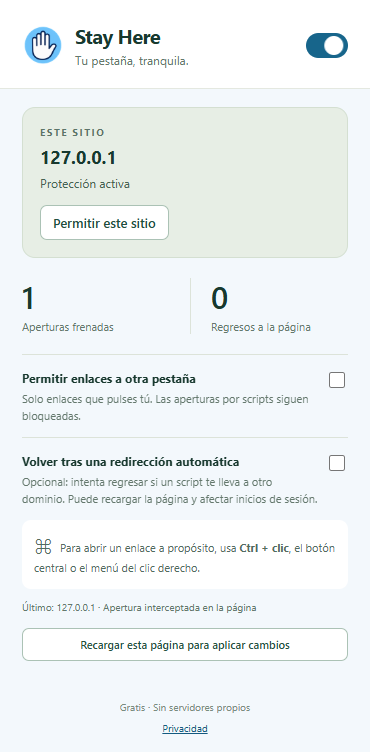
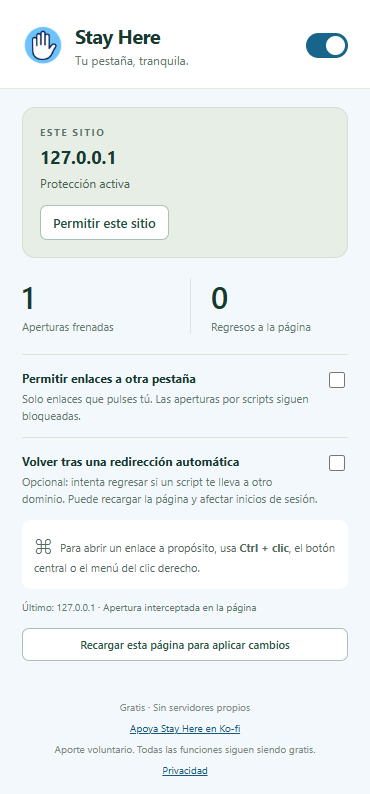
Conecta Ko-fi y refuerza la privacidad en Stay Here 1.1.1

diff --git a/docs/privacy.html b/docs/privacy.html
@@ -5,7 +5,7 @@
 <title>Privacidad de Stay Here</title>
 <style>body{font:17px/1.7 system-ui,sans-serif;max-width:760px;margin:48px auto;padding:0 24px;color:#17354b}h1,h2{line-height:1.25}a{color:#145a80}</style>
 <h1>Privacidad de Stay Here</h1>
-<p>Actualizada el 26 de octubre de 2026. Esta política corresponde a Stay Here 1.1.0.</p>
+<p>Actualizada el 26 de octubre de 2026. Esta política corresponde a Stay Here 1.1.1.</p>
 <p>Stay Here ayuda a bloquear aperturas de ventanas y pestañas emergentes. El procesamiento de la protección ocurre en tu navegador. La extensión no usa servidores propios, cuentas, analítica ni publicidad y no transmite los datos de navegación al desarrollador.</p>
 <h2>Datos que utiliza</h2>
 <p>La extensión utiliza las direcciones de páginas y destinos de enlaces o formularios, el dominio del sitio y eventos de navegación para decidir qué aperturas permitir o cerrar. No extrae el contenido de los campos de formularios ni crea un historial permanente de navegación.</p>

diff --git a/privacy.html b/privacy.html
@@ -5,7 +5,7 @@
 <title>Privacidad de Stay Here</title>
 <style>body{font:17px/1.7 system-ui,sans-serif;max-width:760px;margin:48px auto;padding:0 24px;color:#17354b}h1,h2{line-height:1.25}a{color:#145a80}</style>
 <h1>Privacidad de Stay Here</h1>
-<p>Actualizada el 26 de octubre de 2026. Esta política corresponde a Stay Here 1.1.0.</p>
+<p>Actualizada el 26 de octubre de 2026. Esta política corresponde a Stay Here 1.1.1.</p>
 <p>Stay Here ayuda a bloquear aperturas de ventanas y pestañas emergentes. El procesamiento de la protección ocurre en tu navegador. La extensión no usa servidores propios, cuentas, analítica ni publicidad y no transmite los datos de navegación al desarrollador.</p>
 <h2>Datos que utiliza</h2>
 <p>La extensión utiliza las direcciones de páginas y destinos de enlaces o formularios, el dominio del sitio y eventos de navegación para decidir qué aperturas permitir o cerrar. No extrae el contenido de los campos de formularios ni crea un historial permanente de navegación.</p>

diff --git a/popup.js b/popup.js
@@ -60,6 +60,11 @@ if (StayHereSupport.url) {
       byId("support").href = url.href;
       byId("support").hidden = false;
       byId("support-note").hidden = false;
+      byId("support").addEventListener("click", async event => {
+        event.preventDefault();
+        try { await chrome.tabs.create({ url: url.href, active: true }); }
+        catch { feedback("No se pudo abrir Ko-fi. Inténtalo de nuevo.", true); }
+      });
     }
   } catch { /* Leave support hidden until a valid creator URL is configured. */ }
 }

diff --git a/support-config.js b/support-config.js
@@ -1,3 +1,3 @@
 "use strict";
-// Add your own https://ko-fi.com/creator URL after creating the account.
-const StayHereSupport = Object.freeze({ url: "" });
+// Public creator page only. No credentials or payment data belong here.
+const StayHereSupport = Object.freeze({ url: "https://ko-fi.com/laloerraz" });

diff --git a/README.md b/README.md
@@ -37,7 +37,7 @@ Permisos: `storage` para ajustes/estado, `webNavigation` para aperturas y navega
 
 ## Ko-fi
 
-Todas las funciones siguen siendo gratis. Cuando tengas tu cuenta, añade tu URL completa `https://ko-fi.com/tuusuario` en `support-config.js`. El enlace de apoyo está oculto mientras no haya una URL válida. No se cargan widgets ni scripts externos. Vuelve a generar el ZIP después del cambio.
+Todas las funciones siguen siendo gratis. Puedes [apoyar el desarrollo en Ko-fi](https://ko-fi.com/laloerraz) desde el botón del panel o desde Sponsor en GitHub. La página de pago se abre únicamente cuando pulsas el enlace. No se cargan widgets ni scripts externos y la extensión no recibe datos de tu tarjeta.
 
 ## Pruebas
 
@@ -53,7 +53,7 @@ La comprobación opcional `tests/extension-smoke.cjs` requiere Playwright y un n
 powershell -ExecutionPolicy Bypass -File scripts/package.ps1
 ```
 
-Genera `dist/StayHere-1.1.0-chrome.zip` con una lista explícita de archivos de producto; excluye documentación de desarrollo, pruebas y diseños. El manifiesto queda en la raíz del ZIP.
+Genera `dist/StayHere-1.1.1-chrome.zip` con una lista explícita de archivos de producto; excluye documentación de desarrollo, pruebas y diseños. El manifiesto queda en la raíz del ZIP.
 
 ## Publicación y repositorio
 
@@ -67,4 +67,8 @@ Antes de enviar a revisión, sigue [store/PENDIENTES.txt](store/PENDIENTES.txt).
 
 ## Apoyo
 
-El enlace de Ko-fi se añadirá cuando esté disponible. No hay funciones de pago.
+[Apoya Stay Here en Ko-fi](https://ko-fi.com/laloerraz). Los aportes son voluntarios; no hay funciones de pago.
+
+## Privacidad del repositorio
+
+El código y las pruebas no contienen credenciales de pagos. El único dato de Ko-fi integrado es el enlace público del creador. Consulta [docs/REPOSITORIO_Y_PRIVACIDAD.md](docs/REPOSITORIO_Y_PRIVACIDAD.md) para distinguir archivos públicos, datos privados e historial.

diff --git a/docs/REPOSITORIO_Y_PRIVACIDAD.md b/docs/REPOSITORIO_Y_PRIVACIDAD.md
@@ -1,0 +1,11 @@
+# Código público y datos privados
+
+En un repositorio público, todo el código, la documentación y el historial publicado son visibles. GitHub no permite ocultar archivos individuales a ciertos visitantes de un mismo repositorio público.
+
+`content.js`, las pruebas y `PRUEBAS.md` contienen funcionamiento y documentación del producto. No contienen los datos de navegación de los usuarios ni credenciales de pagos. El código de una extensión distribuida también puede ser inspeccionado por quien la instala.
+
+La integración con Ko-fi incluye únicamente el enlace público `https://ko-fi.com/laloerraz`. El navegador abre esa página al pulsar el botón; la extensión no incluye claves de Ko-fi, datos bancarios, contraseñas ni un procesador de tarjetas. No envía a Ko-fi el historial de navegación ni el dominio que se está protegiendo.
+
+Las conversaciones, copias históricas y archivos locales se guardan fuera de la carpeta del repositorio. `.gitignore` excluye además credenciales y carpetas privadas conocidas. Ignorar un archivo no lo retira de commits anteriores: si se publicó un secreto, debe revocarse y revisarse el historial.
+
+La comprobación preventiva busca formatos conocidos de credenciales en archivos versionados. No sustituye una revisión del contenido ni garantiza detectar todos los secretos posibles. Los commits nuevos utilizan el correo de privacidad de GitHub.

diff --git a/PRUEBAS.md b/PRUEBAS.md
@@ -1,4 +1,4 @@
-# Verificación de Stay Here 1.1.0
+# Verificación de Stay Here 1.1.1
 
 Comprobada el 26 de octubre de 2026.
 
@@ -13,6 +13,6 @@ Comprobada el 26 de octubre de 2026.
 - Probar en Google Chrome con y sin uBlock Origin Lite. Edge no sustituye esta comprobación.
 - Probar el popup desde el botón de la barra del navegador, reinicio completo de Chrome, formularios, navegación compleja de acceso/pago, iframes y sitios de uso habitual.
 - Probar incógnito cuando se habilite y los límites del regreso opcional.
-- Ko-fi permanece sin configurar. La prueba verifica que el enlace está oculto; no se ha probado un pago.
+- Ko-fi configurado: la prueba verifica el enlace público, que se abre en otra pestaña y sin acceso a window.opener. La navegación externa se sirve con una respuesta de prueba para no depender de la red; la página pública se comprobó por separado en el navegador. No se realiza ningún pago.
 
 La política por documento requiere recargar para aplicar todos los ajustes. La instalación de scripts es asíncrona y no garantiza ejecutarse antes que todos los scripts del sitio. Los contadores son orientativos y no prueban que una apertura sea publicidad.

diff --git a/CHANGELOG.md b/CHANGELOG.md
@@ -1,5 +1,12 @@
 # Cambios
 
+## 1.1.1
+
+- Botón de apoyo conectado a la página pública de Ko-fi de laloerraz.
+- Sponsor de GitHub configurado con el mismo creador.
+- Exclusiones y comprobación preventiva para evitar subir credenciales o datos locales.
+- El pago se realiza fuera de la extensión, sin widgets ni nuevas autorizaciones.
+
 ## 1.1.0
 
 - Nueva marca Stay Here e icono de mano abierta sobre un círculo celeste.
